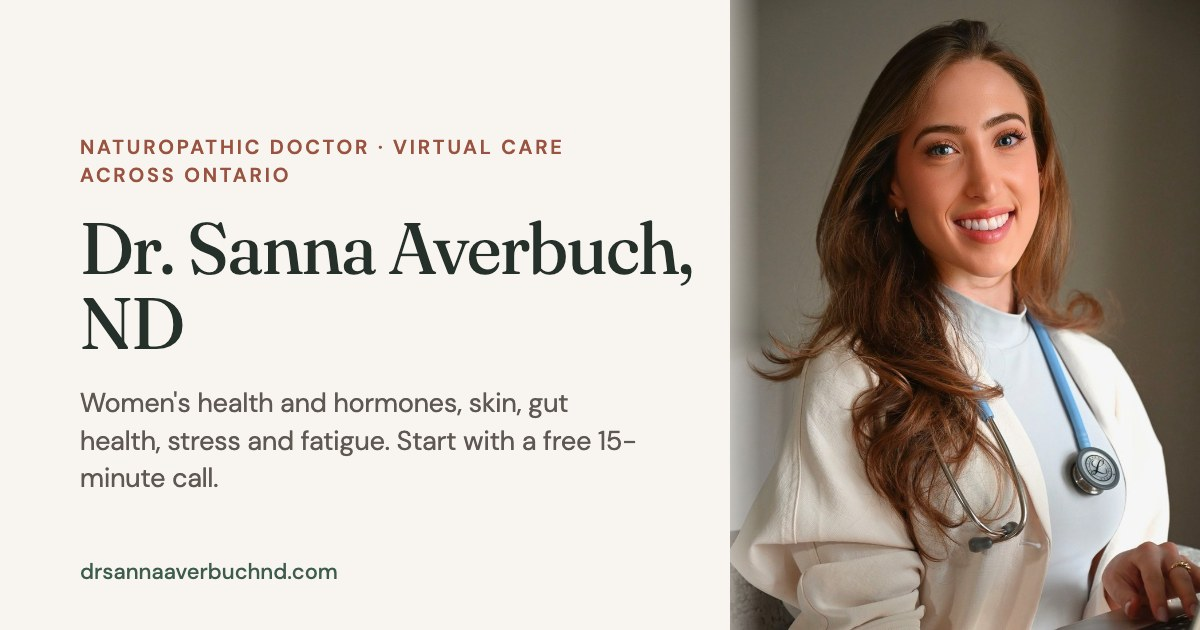
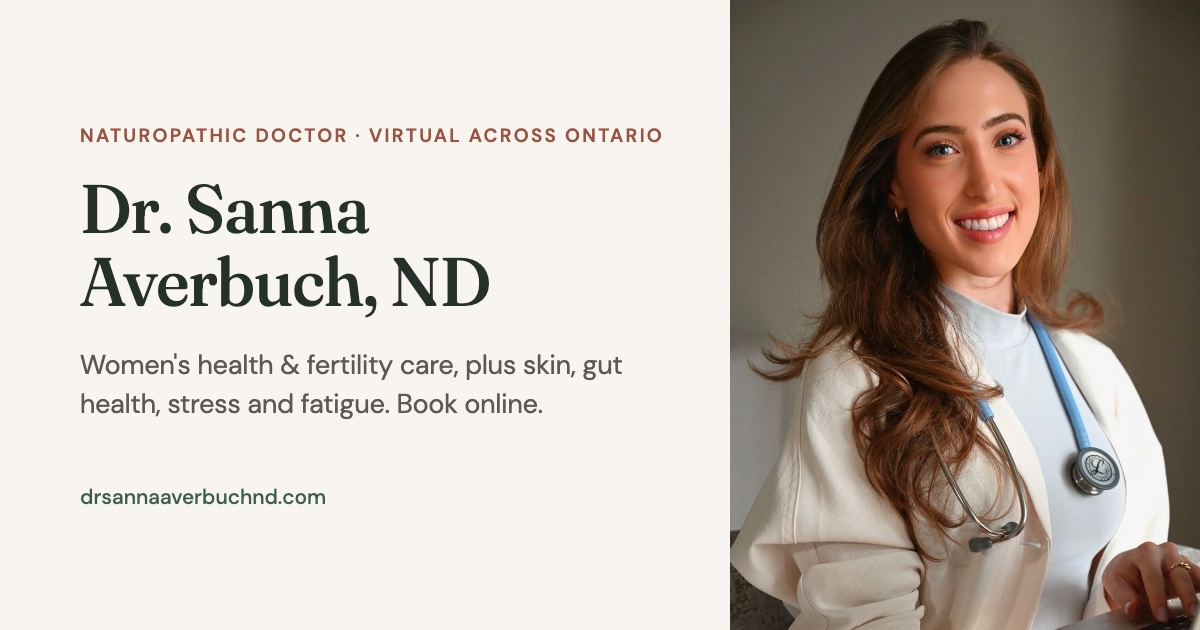
Soften acupuncture wording, ask about in-person visits, refresh share image
- Services: acupuncture "is often used to support" concerns including
  fertility, instead of "can be effective for... fertility optimization".
- Home: acupuncture and cupping lines now invite an email to ask about
  in-person availability, since she isn't seeing patients in person now.
- New share image (og.jpg) mentions women's health & fertility care and
  "Book online" instead of the free 15-minute call.

diff --git a/public/index.html b/public/index.html
@@ -142,7 +142,7 @@
             <a class="btn btn-small" href="https://drsannaaverbuchnd.janeapp.com/#/staff_member/1/treatment/2">Book a free call</a>
           </article>
         </div>
-        <p class="fine mt">Acupuncture and cupping are available in person. <a href="mailto:sanna.averbuch.nd@gmail.com">Email Dr. Averbuch</a> if you're interested.</p>
+        <p class="fine mt">Interested in acupuncture or cupping in person? <a href="mailto:sanna.averbuch.nd@gmail.com">Email Dr. Averbuch</a> to ask about availability.</p>
       </div>
     </section>
 
@@ -197,7 +197,7 @@
           </div>
           <div class="faq-item">
             <h3>Are visits virtual?</h3>
-            <p>Yes. Visits take place by video, anywhere in Ontario. Acupuncture and cupping are available in person; <a href="mailto:sanna.averbuch.nd@gmail.com">email Dr. Averbuch</a> if you're interested.</p>
+            <p>Yes. Visits take place by video, anywhere in Ontario. For acupuncture or cupping in person, <a href="mailto:sanna.averbuch.nd@gmail.com">email Dr. Averbuch</a> to ask about availability.</p>
           </div>
           <div class="faq-item">
             <h3>What happens at the first visit?</h3>

diff --git a/public/services.html b/public/services.html
@@ -69,7 +69,7 @@
         <article class="card">
           <span class="tag">Hands-on treatment</span>
           <h2 class="h3">Traditional Chinese Medicine acupuncture</h2>
-          <p>Acupuncture works by promoting the flow of Qi throughout the body, helping to clear energy blockages that may be hindering your health. Each treatment is customized to your symptoms and a personalized Traditional Chinese Medicine (TCM) assessment. Acupuncture can be effective for a variety of concerns, including digestive issues, fertility optimization, fatigue, anxiety, pain and insomnia.</p>
+          <p>Acupuncture works by promoting the flow of Qi throughout the body, helping to clear energy blockages that may be hindering your health. Each treatment is customized to your symptoms and a personalized Traditional Chinese Medicine (TCM) assessment. Acupuncture is often used to support a variety of concerns, including digestive issues, fertility, fatigue, anxiety, pain and insomnia.</p>
         </article>
         <article class="card">
           <span class="tag">Hands-on treatment</span>
